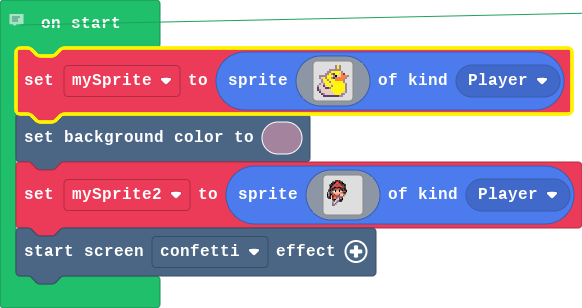
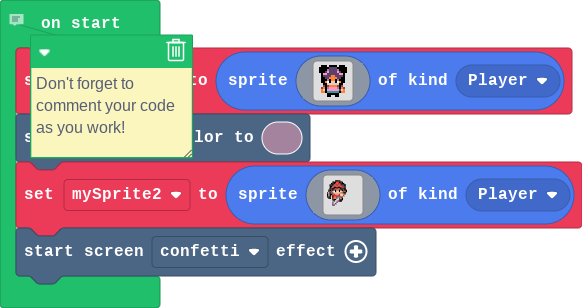
Update pxt.json, main.blocks, main.ts

diff --git a/main.ts b/main.ts
@@ -1,21 +1,21 @@
 // Don't forget to comment your code as you work!
 let mySprite = sprites.create(img`
-    . . . . . . . . . b 5 b . . . . 
-    . . . . . . . . . b 5 b . . . . 
-    . . . . . . b b b b b b . . . . 
-    . . . . . b b 5 5 5 5 5 b . . . 
-    . . . . b b 5 b c 5 5 d 4 c . . 
-    . b b b b 5 5 5 b f d d 4 4 4 b 
-    . b d 5 b 5 5 b c b 4 4 4 4 b . 
-    . . b 5 5 b 5 5 5 4 4 4 4 b . . 
-    . . b d 5 5 b 5 5 5 5 5 5 b . . 
-    . b d b 5 5 5 d 5 5 5 5 5 5 b . 
-    b d d c d 5 5 b 5 5 5 5 5 5 b . 
-    c d d d c c b 5 5 5 5 5 5 5 b . 
-    c b d d d d d 5 5 5 5 5 5 5 b . 
-    . c d d d d d d 5 5 5 5 5 d b . 
-    . . c b d d d d d 5 5 5 b b . . 
-    . . . c c c c c c c c b b . . . 
+    . f f f . f f f f . f f f . 
+    f f f f f c c c c f f f f f 
+    f f f f b c c c c b f f f f 
+    f f f c 3 c c c c 3 c f f f 
+    . f 3 3 c c c c c c 3 3 f . 
+    . f c c c c 4 4 c c c c f . 
+    . f f c c 4 4 4 4 c c f f . 
+    . f f f b f 4 4 f b f f f . 
+    . f f 4 1 f d d f 1 4 f f . 
+    . . f f d d d d d d f f . . 
+    . . e f e 4 4 4 4 e f e . . 
+    . e 4 f b 3 3 3 3 b f 4 e . 
+    . 4 d f 3 3 3 3 3 3 c d 4 . 
+    . 4 4 f 6 6 6 6 6 6 f 4 4 . 
+    . . . . f f f f f f . . . . 
+    . . . . f f . . f f . . . . 
     `, SpriteKind.Player)
 scene.setBackgroundColor(11)
 let mySprite2 = sprites.create(img`
